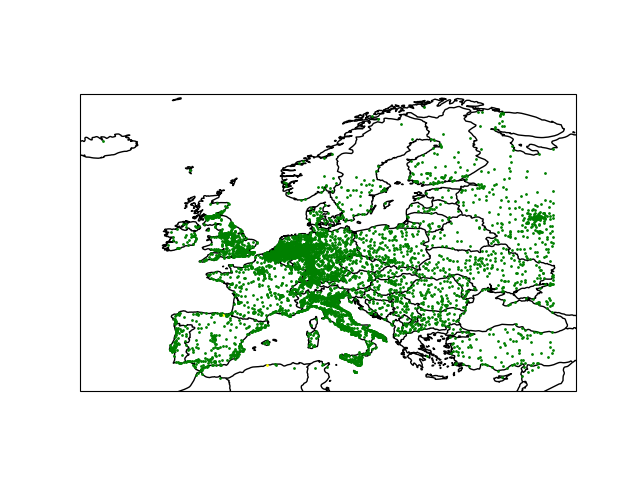
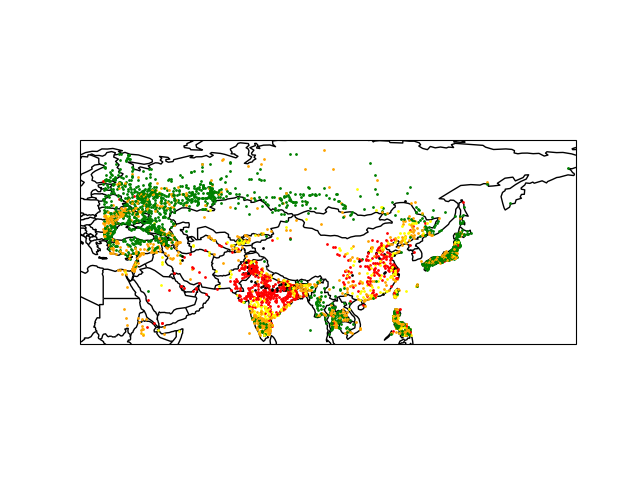
Test

diff --git a/worldcreator.py b/worldcreator.py
@@ -14,7 +14,7 @@ with open('airpollution.csv') as f:
     udaje = f.read().strip().split("\n")
 
 def world_map():
-    ax.set_extent([67, 98, 5, 38])
+    #ax.set_extent([67, 98, 5, 38])
     for riadok in udaje:
         aktualne = riadok.split(',')
         country = aktualne[0]
@@ -34,13 +34,13 @@ def world_map():
         if AQI_category == 'Good':
             plt.plot(lng, lat, marker='o', color='green', markersize=1, transform=ccrs.PlateCarree())
         if AQI_category == 'Moderate':
-            plt.plot(lng, lat, marker='o', color='yellow', markersize=1, transform=ccrs.PlateCarree())
+            plt.plot(lng, lat, marker='o', color='orange', markersize=1, transform=ccrs.PlateCarree())
         if AQI_category == 'Unhealthy':
             plt.plot(lng, lat, marker='o', color='red', markersize=1, transform=ccrs.PlateCarree())
         if AQI_category == 'Very Unhealthy':
             plt.plot(lng, lat, marker='o', color='black', markersize=1, transform=ccrs.PlateCarree())
         if AQI_category == 'Unhealthy for Sensitive Groups':
-            plt.plot(lng, lat, marker='o', color='orange', markersize=1, transform=ccrs.PlateCarree())
+            plt.plot(lng, lat, marker='o', color='yellow', markersize=1, transform=ccrs.PlateCarree())
 
 # Europe if 35<=lat<=72 and -25<=lng<=40:
 # Africa	if 35<=lat<=35 and 20<=lng<=55:
@@ -60,18 +60,18 @@ def draw():
         PM2_5_AQI_category = aktualne[11]
         lat = float(aktualne[12])
         lng = float(aktualne[13])
-        teraz = NO2_AQI_category
-        if 35<=lat<=72 and -25<=lng<=40:
+        teraz = AQI_category
+        if 10<=lat<=80 and 25<=lng<=180:
             if teraz == 'Good':
                 plt.plot(lng, lat, marker='o', color='green', markersize=1, transform=ccrs.PlateCarree())
             if teraz == 'Moderate':
-                plt.plot(lng, lat, marker='o', color='yellow', markersize=1, transform=ccrs.PlateCarree())
+                plt.plot(lng, lat, marker='o', color='orange', markersize=1, transform=ccrs.PlateCarree())
             if teraz == 'Unhealthy':
                 plt.plot(lng, lat, marker='o', color='red', markersize=1, transform=ccrs.PlateCarree())
             if teraz == 'Very Unhealthy':
                 plt.plot(lng, lat, marker='o', color='black', markersize=1, transform=ccrs.PlateCarree())
             if teraz == 'Unhealthy for Sensitive Groups':
-                plt.plot(lng, lat, marker='o', color='orange', markersize=1, transform=ccrs.PlateCarree())
+                plt.plot(lng, lat, marker='o', color='yellow', markersize=1, transform=ccrs.PlateCarree())
 draw()
 print('ok')
 plt.savefig("world.png")

diff --git a/tesr.py b/tesr.py
@@ -1,0 +1,32 @@
+import tkinter as tk
+
+import matplotlib.pyplot as plt
+from matplotlib.backends.backend_tkagg import FigureCanvasTkAgg
+
+import cartopy.crs as ccrs
+import cartopy.feature as cfeature
+
+
+root = tk.Tk()
+root.geometry("800x600")
+
+
+# Create matplotlib figure with Cartopy projection
+fig = plt.Figure(figsize=(8,6))
+ax = fig.add_subplot(111, projection=ccrs.PlateCarree())
+
+# Add map features
+ax.coastlines()
+ax.add_feature(cfeature.BORDERS)
+ax.add_feature(cfeature.LAND)
+ax.add_feature(cfeature.OCEAN)
+
+
+
+# Embed matplotlib figure into Tkinter
+canvas = FigureCanvasTkAgg(fig, master=root)
+canvas.draw()
+canvas.get_tk_widget().pack(fill=tk.BOTH, expand=True)
+
+
+root.mainloop()
